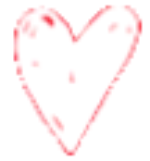
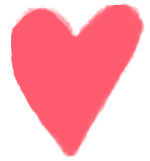
[feat] correction design

diff --git a/app/pages/family-tree/tree.scss b/app/pages/family-tree/tree.scss
@@ -1,4 +1,4 @@
-.flexDisplay{
+.flexDisplay {
   display: flex;
 }
 .wrapper {
@@ -6,13 +6,12 @@
   align-items: center;
   display: flex;
   padding-left: 50px;
-  i{
-    font-size: 30px;
-    font-weight: 900 !important;
+  i {
     background-color: rgb(247, 247, 247) !important;
-    border-width: 3px !important;
-    border-color: rgb(247, 247, 247) ;
+    border-width: 2px !important;
+    border-color: #ff5c70;
     border-style: dashed;
+    border-radius: 0px;
   }
 }
 .familyNodeRoot {
@@ -29,7 +28,7 @@
     width: 90px;
     height: 90px;
     object-fit: cover;
-    border-radius: 10px;
+    border-radius: 20px;
   }
 }
 
@@ -37,10 +36,10 @@
   width: 0 !important;
   position: absolute !important;
   left: 32%;
-  top: 25%
+  top: 25%;
 }
 
-.img-tree{
+.img-tree {
   position: absolute;
   top: 50%;
   left: 15%;
@@ -48,10 +47,15 @@
   height: 500px;
 }
 
-.heart{
+.heart {
   position: absolute;
   left: 92%;
   top: 27%;
   width: 30px !important;
   height: 30px !important;
+}
+.familyNameItem{
+  color: rgb(0, 0, 0);
+  font-family: "Varela Round", sans-serif;
+  font-size: 17px;
 }

diff --git a/app/pages/family-tree/FamilyNode.js b/app/pages/family-tree/FamilyNode.js
@@ -9,7 +9,7 @@ export default class FamilyNode extends React.Component {
     return (
       <div styleName="familyNodeRoot" style={style}>
         <img src={node.img} alt={node.id} />
-        <span styleName="familyName">{node.name}</span>
+        <div styleName="familyNameItem">{node.name}</div>
         {node.spouses.length > 0 && node.gender === 'male' && (
           <img src={require('../../images/heart.png')} alt={'heart'} styleName="heart" />
         )}
